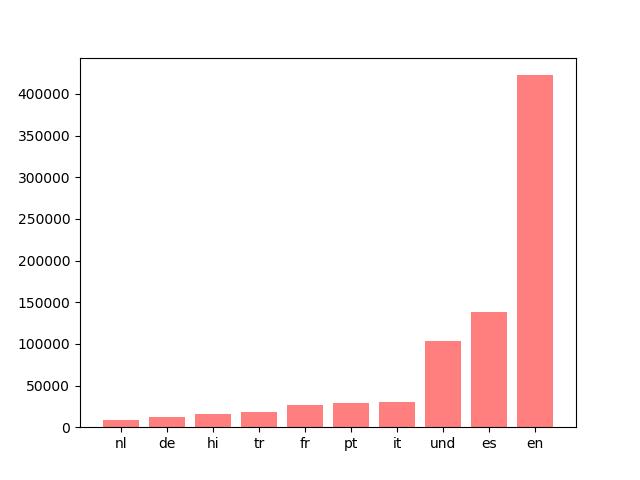
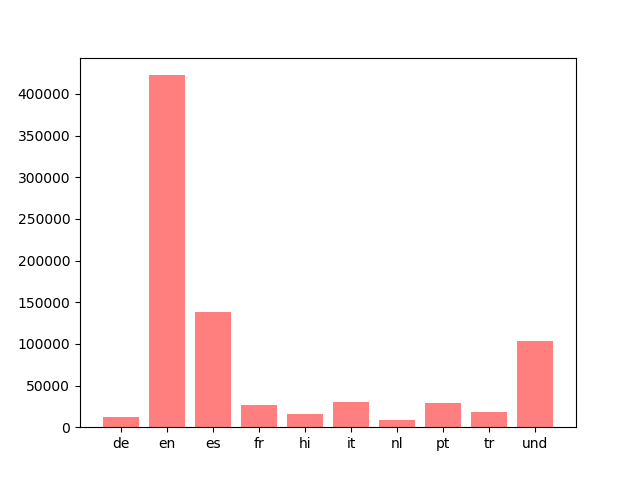
test

diff --git a/src/visualize.py b/src/visualize.py
@@ -50,9 +50,9 @@ print(top_10_key)
 
 temp = range(len(top_10_key))
 
-plt.bar(temp, top_10_val, color='red', alpha=0.5)
+plt.bar(top_10_key, top_10_val, color='red', alpha=0.5)
 
-plt.xticks(temp, top_10_key)
+#plt.xticks(temp, top_10_key)
 
 plt.savefig('test.png')
 """
